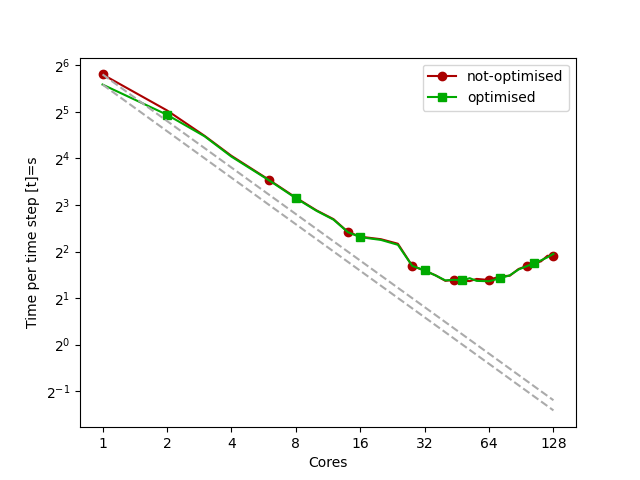
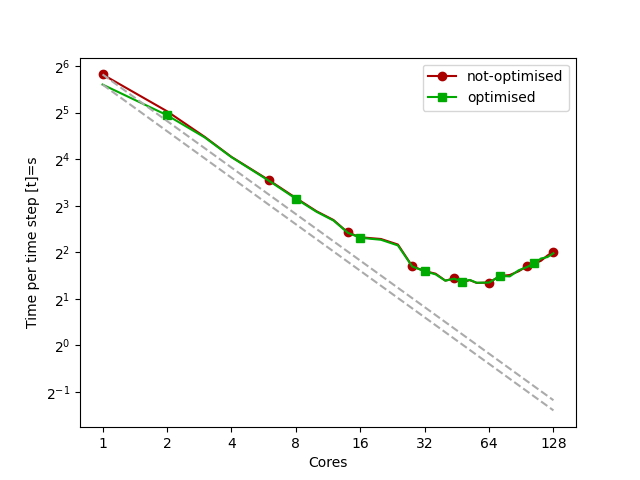
Start postprocessing

diff --git a/python/exahype2/postprocessing/plot-scaling.py b/python/exahype2/postprocessing/plot-scaling.py
@@ -134,7 +134,13 @@ A generic script to create speedup plots.
             data_points.append( new_data ) 
           os.remove( data_file )
           
-        visualise( data_points, symbol_counter, colour_counter )
+        if args.verbose:
+          print( "have successfully parsed {} files".format(len(data_files)) )
+
+        if len(data_files)>0:
+          visualise( data_points, symbol_counter, colour_counter )
+        else:
+          print( "ERROR: no files in archive")
       except Exception as e:
         print( "Error: " + str(e) )
         tar = None

diff --git a/benchmarks/exahype2/euler/spherical-accretion-upscaling/spherical-accretion-upscaling.md b/benchmarks/exahype2/euler/spherical-accretion-upscaling/spherical-accretion-upscaling.md
@@ -116,12 +116,22 @@ the supercomputer if you don't want to postprocess on the machine:
      do
        for solver in FV-4 FV-6 FV-8 RK2DG2 RK3DG3 RK4DG4
        do
-         tar -czvf single-node-benchmark-$type-no-opt-$solver.tar.gz single-node-benchmark-$type-no-opt-$solver-*.data
-         tar -czvf single-node-benchmark-$type-opt-$solver.tar.gz    single-node-benchmark-$type-opt-$solver-*.data
+         tar -czvf single-node-benchmark-$type-no-opt-$solver.tar.gz single-node-benchmark-$type-no-opt-$solver-*-cores.data
+         tar -czvf single-node-benchmark-$type-opt-$solver.tar.gz    single-node-benchmark-$type-opt-$solver-*-cores.data
        done
      done
      
      
+
+     for type in reg-0
+     do
+       for solver in FV-8 RK4DG4
+       do
+         tar -czvf single-node-benchmark-$type-$solver-different-mpi-tasks-on-node.tar.gz    single-node-benchmark-$type-opt-$solver-*-mpi-tasks-on-node.data
+       done
+     done
+     
+
 All data that does not end with .data (and does not end up in archives) can safely
 be removed from the benchmark point of view. We do not evaluate it further here.
 
@@ -147,7 +157,7 @@ good first impression of the code performance:
 
 We first study the impact of the optimisation on the various solvers:
       
-      for type in 0
+      for type in reg-0
       do
        for solver in FV-4 FV-6 FV-8 RK2DG2 RK3DG3 RK4DG4
        do
@@ -158,9 +168,15 @@ We first study the impact of the optimisation on the various solvers:
 If you run these scripts, you obtain a couple plots in pdf and png format which show the 
 shared memory scaling behaviour on one node. If you have enabled GPUs, the runs should 
 offload to the accelerators, too.
+The two plots below show the performance of the code on an EPYC node with 128 cores and
+they compare Finite Volumes with a patch size of 4x4x4 with a code with patch size 8x8x8.
+We clearly see that the impact of good scalability is only a secondary runtime criterion:
+Bigger patches just have so much lower overhead, that it is hard for the scaling to make
+this up.
 
 
-<img src="example-output/single-node-benchmarks-0-FV-4.png" />
+<img src="example-output/single-node-assess-optimisation-reg-0-FV-4.png" />
+<img src="example-output/single-node-assess-optimisation-reg-0-FV-8.png" />
 
 
 We next compare different orders and patch sizes against each other by means of 
@@ -169,7 +185,7 @@ would have to include the obtained accuracy in one way or another, but we focus
 exclusively on performance aspects here:
       
       
-      for type in 0
+      for type in reg-0
       do
        for optimisation in opt no-opt
        do
@@ -201,4 +217,17 @@ typically study the following setups:
       16                        |    8
       32                        |    4
       
-Note that SLURM refers to tasks, and not to ranks.
+Note that SLURM refers to tasks, and not to ranks. The postprocessing can be
+done, once again, via the pre-defined scripts, though you might prefer 
+something fancier, custom-made for your own plots in this case:
+
+      
+      for type in reg-0
+      do
+       #for solver in FV-8 RK4DG4
+       for solver in FV-8
+       do
+        python3 ../../../../python/exahype2/postprocessing/plot-scaling.py --log-x --log-y --output single-node-different-mpi-tasks-on-node-$type-$solver single-node-benchmark-$type-$solver-different-mpi-tasks-on-node.tar.gz -v
+       done
+      done
+      
